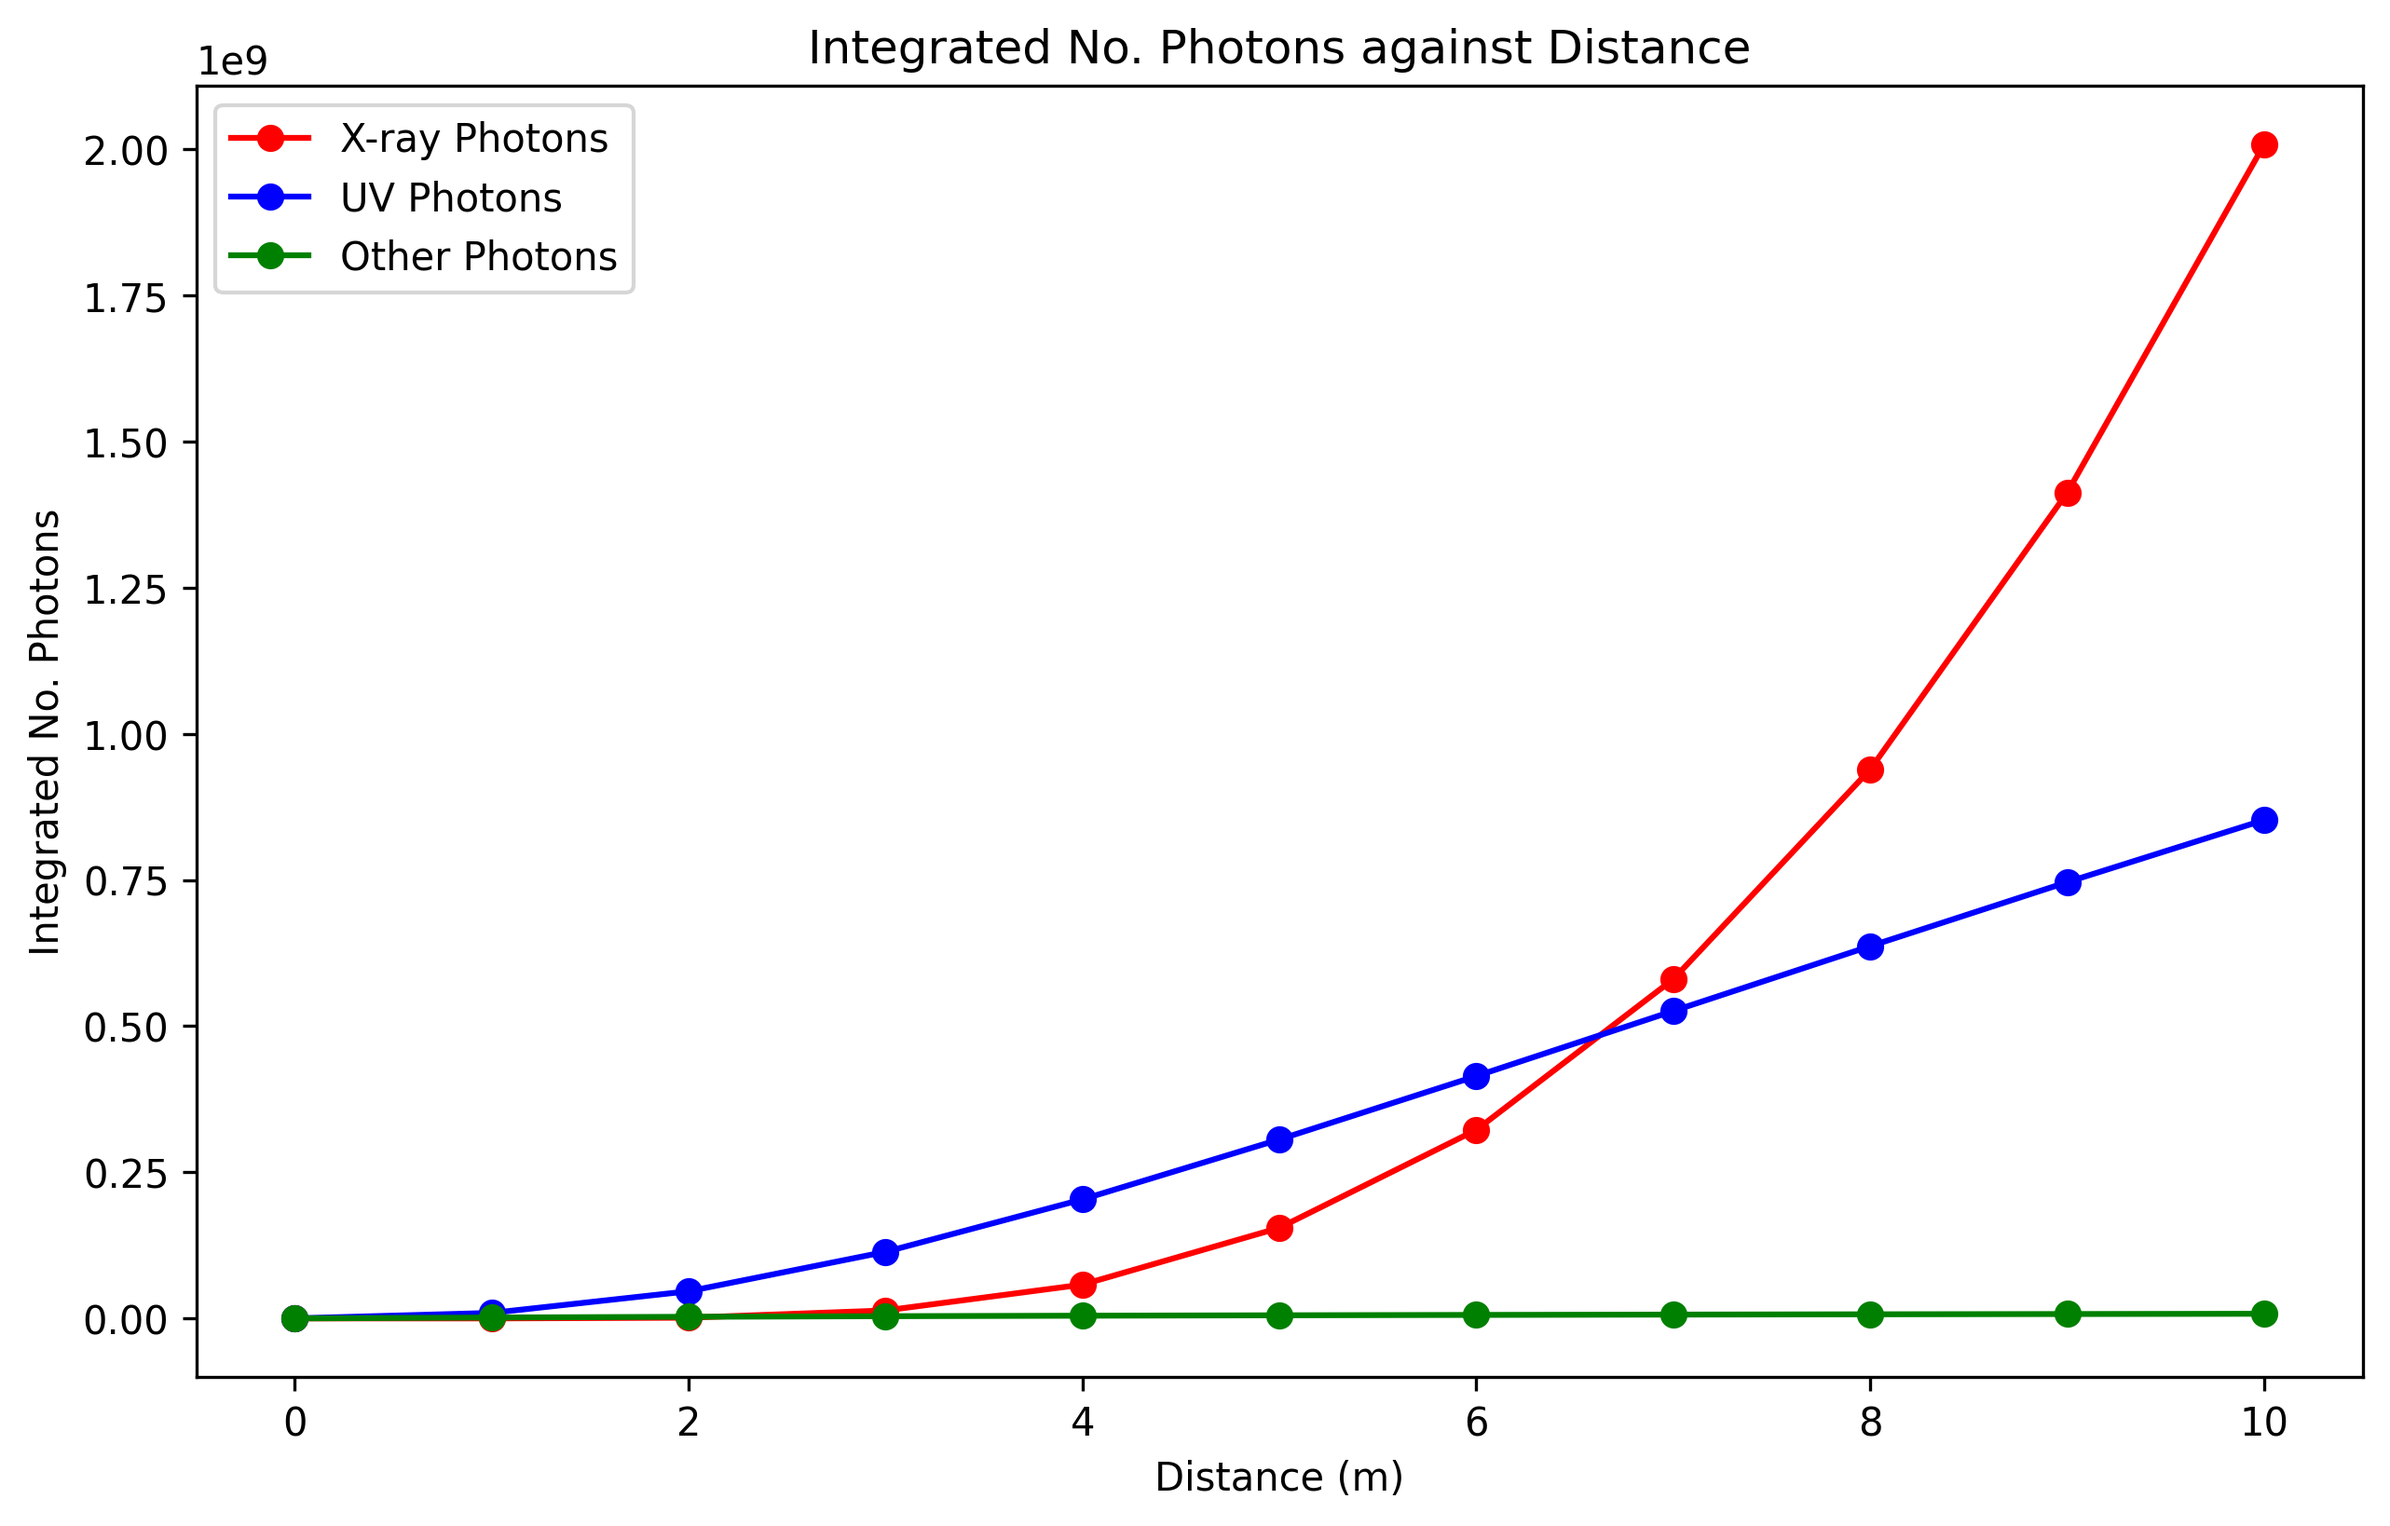
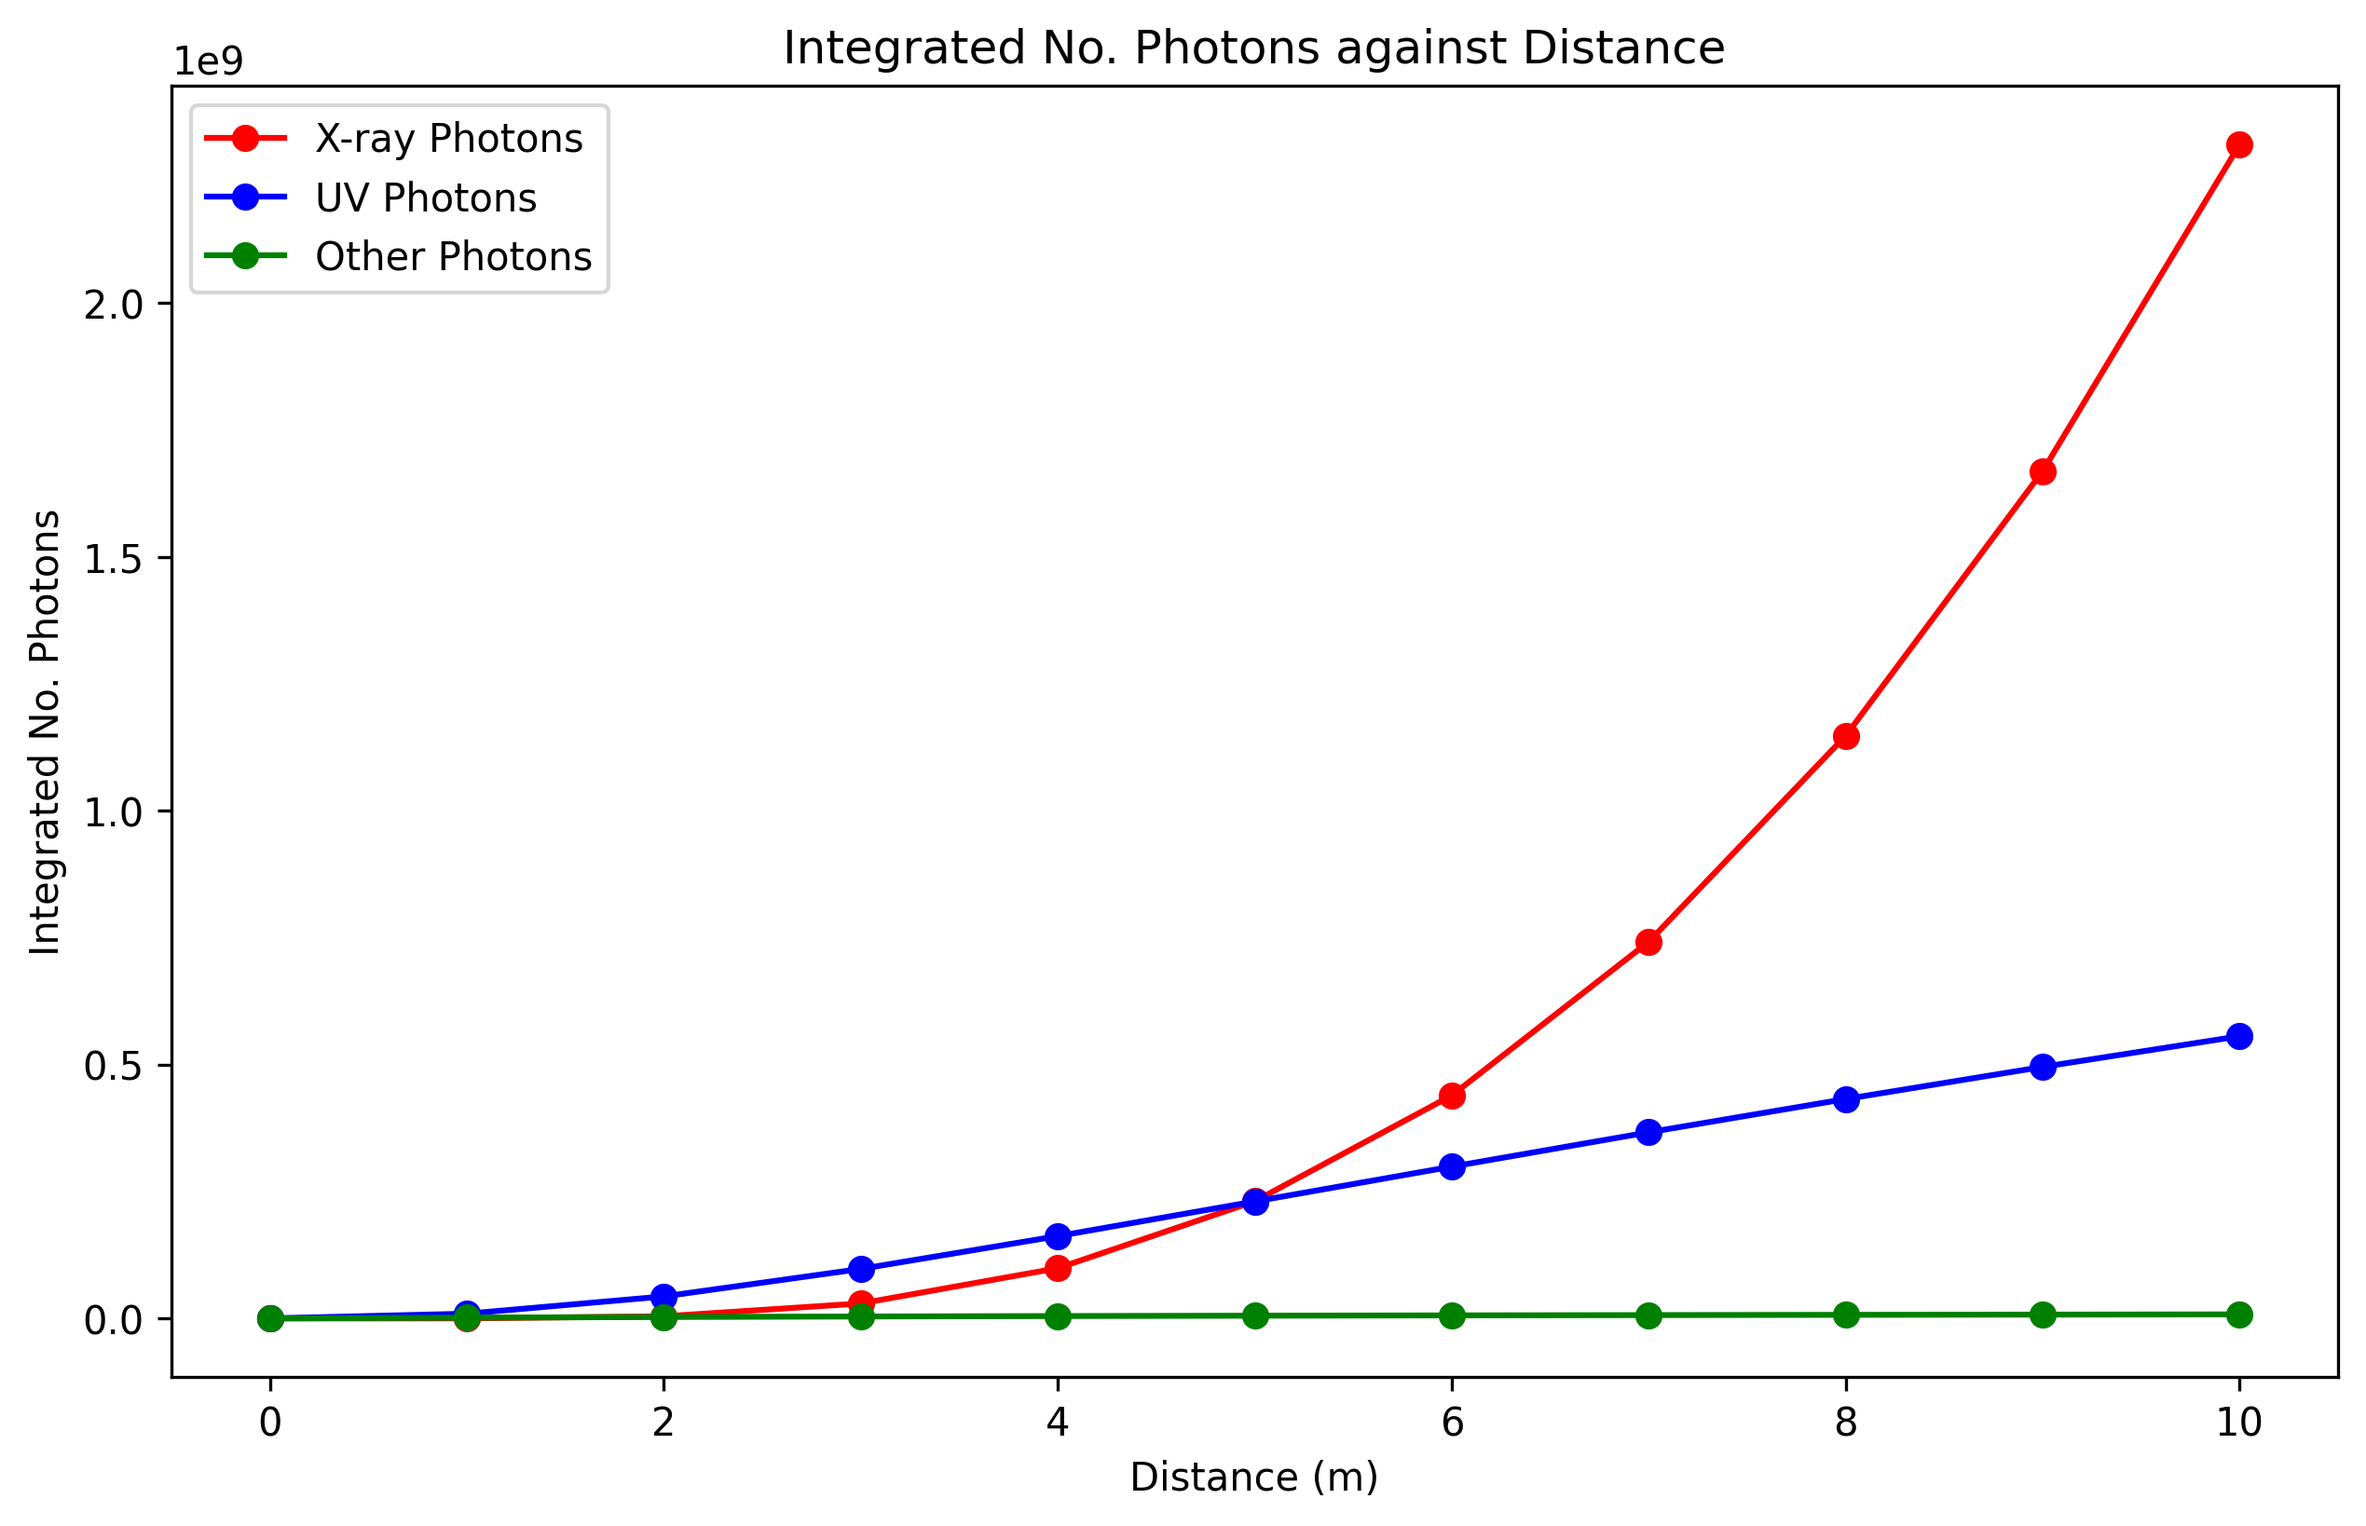
changed to extract more parameters

diff --git a/Data_processing/Parameters/parameter_extraction.py b/Data_processing/Parameters/parameter_extraction.py
@@ -21,8 +21,6 @@ def extract_properties_sync(output):
                 properties['mean_theta'] = float(line.split(":")[-1].strip())
             elif "Critical Energy:" in line:
                 properties['crit_energy'] = float(line.split(":")[-1].strip())
-            elif "Theta STD:" in line:
-                properties['theta_std'] = float(line.split(":")[-1].strip())
 
         except ValueError:
             print(f"Could not convert the line to float: '{line}'")
@@ -66,6 +64,11 @@ def extract_properties_em(output):
             # Adjust based on actual output format
             if "Geometric Emittance:" in line:
                 properties['geometric_emittance'] = float(line.split(":")[-1].strip())
+            elif "Energy:" in line:
+                properties['beam_energy'] = float(line.split(":")[-1].strip())
+            elif "Spread:" in line:
+                properties['beam_spread'] = float(line.split(":")[-1].strip())
+            
             
 
         except ValueError:
@@ -126,7 +129,9 @@ emittance_list = []
 initial_emittance_list=[]
 mean_theta_list=[]
 crit_energy_list=[]
-theta_std_list=[]
+beam_energy_list=[]
+beam_spread_list=[]
+
 
 for index, subfolder in enumerate(sub_folders):
     full_path = os.path.join(data_directory, subfolder)
@@ -143,7 +148,7 @@ for index, subfolder in enumerate(sub_folders):
         ratio_list.append(properties_sync.get('ratio', None))
         mean_theta_list.append(properties_sync.get('mean_theta', None))
         crit_energy_list.append(properties_sync.get('crit_energy', None))
-        theta_std_list.append(properties_sync.get('theta_std',None))
+
 
 
     else:
@@ -153,6 +158,8 @@ for index, subfolder in enumerate(sub_folders):
         print(f"Directory {subfolder}: Properties = final {properties_em}")
         #save properties to relevant list
         emittance_list.append(properties_em.get('geometric_emittance', None))
+        beam_energy_list.append(properties_em.get('beam_energy', None))
+        beam_spread_list.append(properties_em.get('beam_spread', None))
 
     else:
         print(f"Directory {subfolder}: Failed to retrieve final em properties.")
@@ -171,10 +178,11 @@ emittance_array=np.array(emittance_list)
 initial_emittance_array=np.array(initial_emittance_list)
 mean_theta_array=np.array(mean_theta_list)
 crit_energy_array=np.array(crit_energy_list)
-theta_std_array=np.array(theta_std_list)
+beam_energy_array=np.array(beam_energy_list)
+beam_spread_array=np.array(beam_spread_list)
 # Create a DataFrame from the two arrays
-df = pd.DataFrame({'Emittance': emittance_array, 'Uv/X-ray': ratio_array,'Initial emittance':initial_emittance_array,'Mean Theta':mean_theta_array, 'Critical Energy':crit_energy_array, 'Theta Std':theta_std_array})
+df = pd.DataFrame({'Emittance': emittance_array, 'Uv/X-ray': ratio_array,'Initial emittance':initial_emittance_array,'Mean Theta':mean_theta_array, 'Critical Energy':crit_energy_array, 'Beam Energy':beam_energy_array, 'Beam Spread':beam_spread_array})
 
 # Save to CSV
-df.to_csv('output.csv', index=False)
+df.to_csv(r'Data_processing\Parameters\output.csv', index=False)
 

diff --git a/Data_processing/Parameters/em.py b/Data_processing/Parameters/em.py
@@ -185,13 +185,14 @@ else:
         energy_string = "%g TeV" % (energy / 1e12)
 
     # New output for energy, gamma, and spread
-    print(f"Energy: {energy} eV")  # Prints the energy in a human-readable format
+    print(f"Energy: {energy} ")  # Prints the energy in a human-readable format
     print(f"Gamma: {wmg}")  # Prints the gamma value formatted to 2 decimal places
     spread_percentage = 100 * stdev_g / wmg if wmg != 0 else 0  # Calculate the spread in percentage
-    print(f"Spread: {spread_percentage:.2f}%")  # Prints the spread formatted to 2 decimal places with a percentage sign
+    print(f"Spread: {spread_percentage:.2f}")  # Prints the spread formatted to 2 decimal places with a percentage sign
     print(f"Geometric Emittance: {(em_y*em_z)**0.5}")
     print(f"Y Emittance:{em_y}")
     print(f"Z Emittance:{em_z}")
+
 
   
 

diff --git a/Data_processing/Parameters/synchrotron_carys3D_sys_input.py b/Data_processing/Parameters/synchrotron_carys3D_sys_input.py
@@ -237,6 +237,5 @@ std_dev=std_from_frequency(full_theta_array[0],photons_per_theta_array)
 print("UV/Xray ratio:"+str(uv_photons/x_ray_photons))
 #print("UV/Xray percentage ratio:"+str(uv_percentage/x_ray_percentage)) --same value as above
 
-print("Mean Theta:"+str(mean_theta_array[0])) #replsce with correct value
-print("Critical Energy:"+str(critical_energy_array[0])) #replace with correct value
-print("Theta STD:",std_dev)
+print("Mean Theta:"+str(mean_theta_array[0])) 
+print("Critical Energy:"+str(critical_energy_array[0])) 

diff --git a/Data_processing/Parameters/synchrotron_carys3D.py b/Data_processing/Parameters/synchrotron_carys3D.py
@@ -60,7 +60,7 @@ run_no=8
 nu = 5/3  # order of the Bessel function
 uv_max=124 #eV
 uv_min=3.1 #eV
-xray_max=124e3 #eV
+xray_max=124e1 #eV
 
 
 
